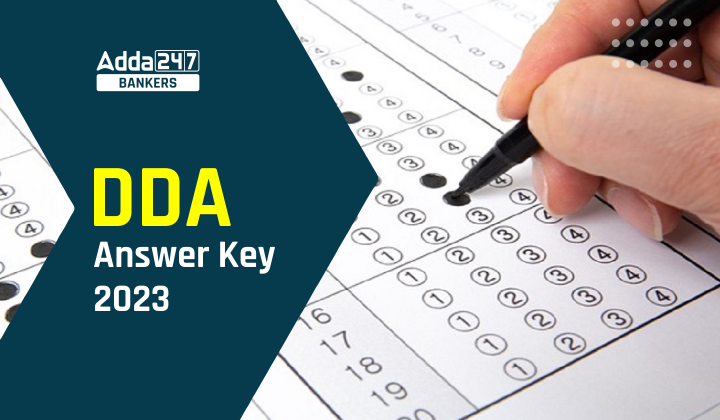
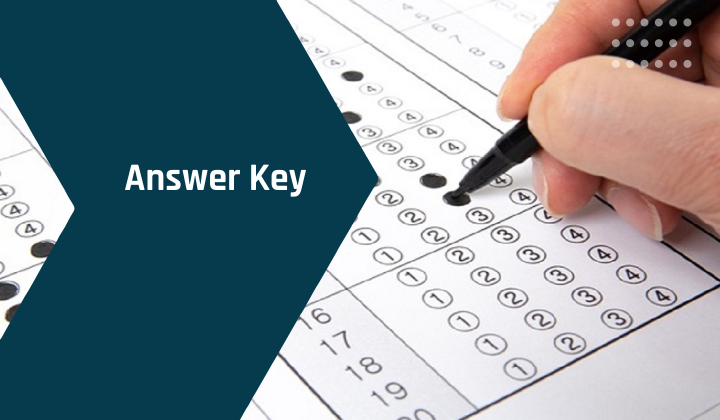
gk

Changed region(s): [[0.1222, 0.3714, 0.4278, 0.65], [0.1222, 0.1238, 0.275, 0.2167], [0.1222, 0.681, 0.2444, 0.7429]]

diff --git a/Hindi-job/index.html b/Hindi-job/index.html
@@ -1459,51 +1459,113 @@
 
 
                                       <div id="pills-answer-key" class="tab-pane animated fadeInRight">
+                                      <div class="row">
+<!-- Answer-Key-START --@@@@@@@@@@@@@@@@@@@@@@@@@@@@@@@@@@@@@@@@@@@@@@@@@@@@@@@@@@@@@@@@@@@@@@@@@@@@@@@@@@@@@@@@@@@@@@@@@@@@@@@@@@@@@@@@@@@@@@@@@@@@@@@@@@@@@@@@@@@@@@@@@@@@@@@@@@@@@@@@@@@@@@@@@@@@@@@@@@@@@@@@@@@@@@@@@-->
+                                             
+                                             <div class="col-6 col-sm-6 col-md-4 col-lg-4 col-xl-2">
+                                             <div class="episode-block">
+                                             <div class="episode-img position-relative">
+<a href="All-page/000-Question-Papers-Collection/B.com/page-01.html">
+<img src="All-page/000-Answer-Key/DDA-Answer-Key-2023.png" class="img-fluid img-zoom" alt=""><div class=""><div class="">
+                                               
+                                            </a></div></div></div><div class="box-content"></div><div class="video-content">
+                                            <h2 class="video-title">
+<a href="All-page/000-Question-Papers-Collection/B.com/page-01.html">Answer Key</a></h2></div></div></div>
 
-<!-- syllabus-START --@@@@@@@@@@@@@@@@@@@@@@@@@@@@@@@@@@@@@@@@@@@@@@@@@@@@@@@@@@@@@@@@@@@@@@@@@@@@@@@@@@@@@@@@@@@@@@@@@@@@@@@@@@@@@@@@@@@@@@@@@@@@@@@@@@@@@@@@@@@@@@@@@@@@@@@@@@@@@@@@@@@@@@@@@@@@@@@@@@@@@@@@@@@@@@@@@@@@@@@@@@@@@@@@@@@-->
-                            <div class="row">
-                            <div class="col-6 col-sm-6 col-md-4 col-lg-4 col-xl-2">
-                            <div class="episode-block">
-                                <div class="episode-img position-relative">
-                                    <img src="All-page/000-Answer-Key/DDA-Answer-Key-2023.png" class="img-fluid img-zoom" alt="">
-                                    <div class="episode-number">All</div>
-                                    <div class="episode-play-info">
-                                        <div class="episode-play">
-<a href="BOOK/B.Ed-1st-Year-Books-PDF/बीएड/index.html">
-                                                <i class="fa fa-arrow-circle-down"></i>
-                                            </a>
-                                        </div>
-                                    </div>
-                                </div>
-                                <div class="box-content"></div><div class="video-content">
-                            <h2 class="video-title">
-<a href="BOOK/B.Ed-1st-Year-Books-PDF/बीएड/index.html">B.Ed 1st Year Books </a></h2></div></div></div>
-
-<!-- syllabus-End --@@@@@@@@@@@@@@@@@@@@@@@@@@@@@@@@@@@@@@@@@@@@@@@@@@@@@@@@@@@@@@@@@@@@@@@@@@@@@@@@@@@@@@@@@@@@@@@@@@@@@@@@@@@@@@@@@@@@@@@@@@@@@@@@@@@@@@@@@@@@@@@@@@@@@@@@@@@@@@@@@@@@@@@@@@@@@@@@@@@@@@@@@@@@@@@@@@@@@@@@@@@@-->
+<!-- Answer-Key-End --@@@@@@@@@@@@@@@@@@@@@@@@@@@@@@@@@@@@@@@@@@@@@@@@@@@@@@@@@@@@@@@@@@@@@@@@@@@@@@@@@@@@@@@@@@@@@@@@@@@@@@@@@@@@@@@@@@@@@@@@@@@@@@@@@@@@@@@@@@@@@@@@@@@@@@@@@@@@@@@@@@@@@@@@@@@@@@@@@@@@@@@@@@@@@@@@@-->
 
 
 
 
-<!-- syllabus-START --@@@@@@@@@@@@@@@@@@@@@@@@@@@@@@@@@@@@@@@@@@@@@@@@@@@@@@@@@@@@@@@@@@@@@@@@@@@@@@@@@@@@@@@@@@@@@@@@@@@@@@@@@@@@@@@@@@@@@@@@@@@@@@@@@@@@@@@@@@@@@@@@@@@@@@@@@@@@@@@@@@@@@@@@@@@@@@@@@@@@@@@@@@@@@@@@@@@@@@@@@@@@@@@@@@@-->
-   
-                            <div class="col-6 col-sm-6 col-md-4 col-lg-4 col-xl-2">
-                            <div class="episode-block">
-                                <div class="episode-img position-relative">
-                                    <img src="All-page/000-Answer-Key/DDA-Answer-Key-2023.png" class="img-fluid img-zoom" alt="">
-                                    <div class="episode-number">All</div>
-                                    <div class="episode-play-info">
-                                        <div class="episode-play">
-<a href="BOOK/B.Ed-1st-Year-Books-PDF/बीएड/index.html">
-                                                <i class="fa fa-arrow-circle-down"></i>
-                                            </a>
-                                        </div>
-                                    </div>
-                                </div>
-                                <div class="box-content"></div><div class="video-content">
-                            <h2 class="video-title">
-<a href="BOOK/B.Ed-1st-Year-Books-PDF/बीएड/index.html">B.Ed 1st Year Books </a></h2></div></div></div>
+<!-- Answer-Key-START --@@@@@@@@@@@@@@@@@@@@@@@@@@@@@@@@@@@@@@@@@@@@@@@@@@@@@@@@@@@@@@@@@@@@@@@@@@@@@@@@@@@@@@@@@@@@@@@@@@@@@@@@@@@@@@@@@@@@@@@@@@@@@@@@@@@@@@@@@@@@@@@@@@@@@@@@@@@@@@@@@@@@@@@@@@@@@@@@@@@@@@@@@@@@@@@@@-->
+                                             
+                                             <div class="col-6 col-sm-6 col-md-4 col-lg-4 col-xl-2">
+                                             <div class="episode-block">
+                                             <div class="episode-img position-relative">
+<a href="All-page/000-Question-Papers-Collection/B.com/page-01.html">
+<img src="All-page/000-Answer-Key/DDA-Answer-Key-2023.png" class="img-fluid img-zoom" alt=""><div class=""><div class="">
+                                               
+                                            </a></div></div></div><div class="box-content"></div><div class="video-content">
+                                            <h2 class="video-title">
+<a href="All-page/000-Question-Papers-Collection/B.com/page-01.html">Answer Key</a></h2></div></div></div>
 
-<!-- syllabus-End --@@@@@@@@@@@@@@@@@@@@@@@@@@@@@@@@@@@@@@@@@@@@@@@@@@@@@@@@@@@@@@@@@@@@@@@@@@@@@@@@@@@@@@@@@@@@@@@@@@@@@@@@@@@@@@@@@@@@@@@@@@@@@@@@@@@@@@@@@@@@@@@@@@@@@@@@@@@@@@@@@@@@@@@@@@@@@@@@@@@@@@@@@@@@@@@@@@@@@@@@@@@@-->
+<!-- Answer-Key-End --@@@@@@@@@@@@@@@@@@@@@@@@@@@@@@@@@@@@@@@@@@@@@@@@@@@@@@@@@@@@@@@@@@@@@@@@@@@@@@@@@@@@@@@@@@@@@@@@@@@@@@@@@@@@@@@@@@@@@@@@@@@@@@@@@@@@@@@@@@@@@@@@@@@@@@@@@@@@@@@@@@@@@@@@@@@@@@@@@@@@@@@@@@@@@@@@@-->
+
+
+
+<!-- Answer-Key-START --@@@@@@@@@@@@@@@@@@@@@@@@@@@@@@@@@@@@@@@@@@@@@@@@@@@@@@@@@@@@@@@@@@@@@@@@@@@@@@@@@@@@@@@@@@@@@@@@@@@@@@@@@@@@@@@@@@@@@@@@@@@@@@@@@@@@@@@@@@@@@@@@@@@@@@@@@@@@@@@@@@@@@@@@@@@@@@@@@@@@@@@@@@@@@@@@@-->
+                                             
+                                             <div class="col-6 col-sm-6 col-md-4 col-lg-4 col-xl-2">
+                                             <div class="episode-block">
+                                             <div class="episode-img position-relative">
+<a href="All-page/000-Question-Papers-Collection/B.com/page-01.html">
+<img src="All-page/000-Answer-Key/DDA-Answer-Key-2023.png" class="img-fluid img-zoom" alt=""><div class=""><div class="">
+                                               
+                                            </a></div></div></div><div class="box-content"></div><div class="video-content">
+                                            <h2 class="video-title">
+<a href="All-page/000-Question-Papers-Collection/B.com/page-01.html">Answer Key</a></h2></div></div></div>
+
+<!-- Answer-Key-End --@@@@@@@@@@@@@@@@@@@@@@@@@@@@@@@@@@@@@@@@@@@@@@@@@@@@@@@@@@@@@@@@@@@@@@@@@@@@@@@@@@@@@@@@@@@@@@@@@@@@@@@@@@@@@@@@@@@@@@@@@@@@@@@@@@@@@@@@@@@@@@@@@@@@@@@@@@@@@@@@@@@@@@@@@@@@@@@@@@@@@@@@@@@@@@@@@-->
+
+
+
+
+<!-- Answer-Key-START --@@@@@@@@@@@@@@@@@@@@@@@@@@@@@@@@@@@@@@@@@@@@@@@@@@@@@@@@@@@@@@@@@@@@@@@@@@@@@@@@@@@@@@@@@@@@@@@@@@@@@@@@@@@@@@@@@@@@@@@@@@@@@@@@@@@@@@@@@@@@@@@@@@@@@@@@@@@@@@@@@@@@@@@@@@@@@@@@@@@@@@@@@@@@@@@@@-->
+                                             
+                                             <div class="col-6 col-sm-6 col-md-4 col-lg-4 col-xl-2">
+                                             <div class="episode-block">
+                                             <div class="episode-img position-relative">
+<a href="All-page/000-Question-Papers-Collection/B.com/page-01.html">
+<img src="All-page/000-Answer-Key/DDA-Answer-Key-2023.png" class="img-fluid img-zoom" alt=""><div class=""><div class="">
+                                               
+                                            </a></div></div></div><div class="box-content"></div><div class="video-content">
+                                            <h2 class="video-title">
+<a href="All-page/000-Question-Papers-Collection/B.com/page-01.html">Answer Key</a></h2></div></div></div>
+
+<!-- Answer-Key-End --@@@@@@@@@@@@@@@@@@@@@@@@@@@@@@@@@@@@@@@@@@@@@@@@@@@@@@@@@@@@@@@@@@@@@@@@@@@@@@@@@@@@@@@@@@@@@@@@@@@@@@@@@@@@@@@@@@@@@@@@@@@@@@@@@@@@@@@@@@@@@@@@@@@@@@@@@@@@@@@@@@@@@@@@@@@@@@@@@@@@@@@@@@@@@@@@@-->
+
+
+
+<!-- Answer-Key-START --@@@@@@@@@@@@@@@@@@@@@@@@@@@@@@@@@@@@@@@@@@@@@@@@@@@@@@@@@@@@@@@@@@@@@@@@@@@@@@@@@@@@@@@@@@@@@@@@@@@@@@@@@@@@@@@@@@@@@@@@@@@@@@@@@@@@@@@@@@@@@@@@@@@@@@@@@@@@@@@@@@@@@@@@@@@@@@@@@@@@@@@@@@@@@@@@@-->
+                                             
+                                             <div class="col-6 col-sm-6 col-md-4 col-lg-4 col-xl-2">
+                                             <div class="episode-block">
+                                             <div class="episode-img position-relative">
+<a href="All-page/000-Question-Papers-Collection/B.com/page-01.html">
+<img src="All-page/000-Answer-Key/DDA-Answer-Key-2023.png" class="img-fluid img-zoom" alt=""><div class=""><div class="">
+                                               
+                                            </a></div></div></div><div class="box-content"></div><div class="video-content">
+                                            <h2 class="video-title">
+<a href="All-page/000-Question-Papers-Collection/B.com/page-01.html">Answer Key</a></h2></div></div></div>
+
+<!-- Answer-Key-End --@@@@@@@@@@@@@@@@@@@@@@@@@@@@@@@@@@@@@@@@@@@@@@@@@@@@@@@@@@@@@@@@@@@@@@@@@@@@@@@@@@@@@@@@@@@@@@@@@@@@@@@@@@@@@@@@@@@@@@@@@@@@@@@@@@@@@@@@@@@@@@@@@@@@@@@@@@@@@@@@@@@@@@@@@@@@@@@@@@@@@@@@@@@@@@@@@-->
+
+
+
+
+<!-- Answer-Key-START --@@@@@@@@@@@@@@@@@@@@@@@@@@@@@@@@@@@@@@@@@@@@@@@@@@@@@@@@@@@@@@@@@@@@@@@@@@@@@@@@@@@@@@@@@@@@@@@@@@@@@@@@@@@@@@@@@@@@@@@@@@@@@@@@@@@@@@@@@@@@@@@@@@@@@@@@@@@@@@@@@@@@@@@@@@@@@@@@@@@@@@@@@@@@@@@@@-->
+                                             
+                                             <div class="col-6 col-sm-6 col-md-4 col-lg-4 col-xl-2">
+                                             <div class="episode-block">
+                                             <div class="episode-img position-relative">
+<a href="All-page/000-Question-Papers-Collection/B.com/page-01.html">
+<img src="All-page/000-Answer-Key/DDA-Answer-Key-2023.png" class="img-fluid img-zoom" alt=""><div class=""><div class="">
+                                               
+                                            </a></div></div></div><div class="box-content"></div><div class="video-content">
+                                            <h2 class="video-title">
+<a href="All-page/000-Question-Papers-Collection/B.com/page-01.html">Answer Key</a></h2></div></div></div>
+
+<!-- Answer-Key-End --@@@@@@@@@@@@@@@@@@@@@@@@@@@@@@@@@@@@@@@@@@@@@@@@@@@@@@@@@@@@@@@@@@@@@@@@@@@@@@@@@@@@@@@@@@@@@@@@@@@@@@@@@@@@@@@@@@@@@@@@@@@@@@@@@@@@@@@@@@@@@@@@@@@@@@@@@@@@@@@@@@@@@@@@@@@@@@@@@@@@@@@@@@@@@@@@@-->
+
+
+
+
+
+
+
+
+
+
 
 </div>
 <!-- Row End -->
